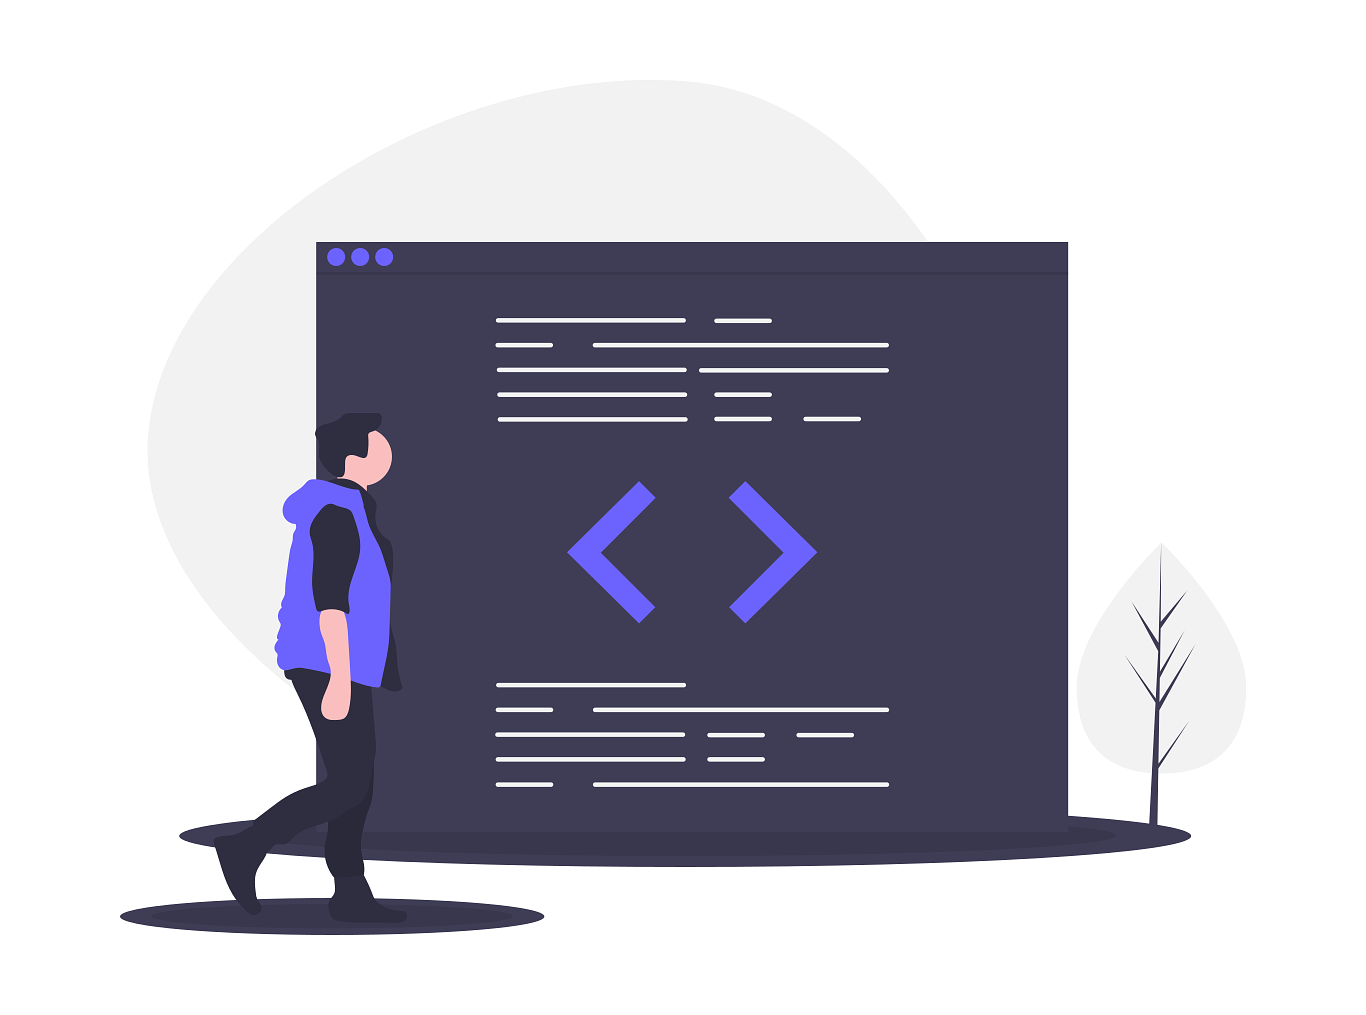
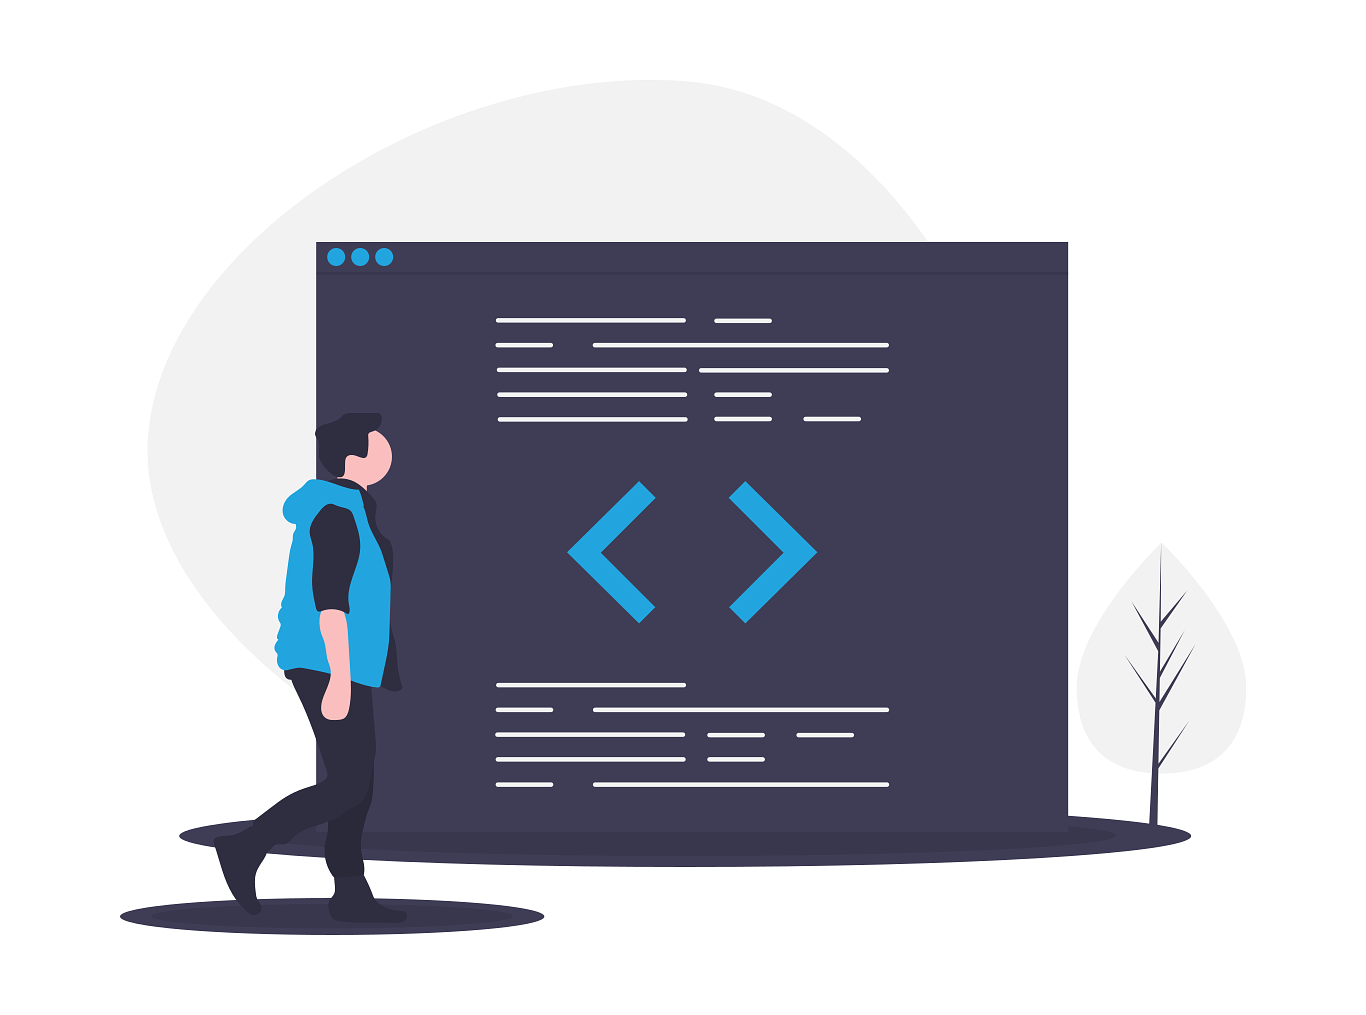
Home - Switch img color + btn "Qui suis-je ?"

diff --git a/index.html b/index.html
@@ -47,6 +47,7 @@
                 <p>Je suis salarié alternant en tant qu'intégrateur web chez
                 Net.Com, agence de développement
                 web.</p>
+                <a href="#!" class="btn">Mon CV</a>
             </div>
             <div class="col-5">
                 <img src="src/img/code-page.png" alt="code-page" class="img-resp">

diff --git a/src/css/style.css b/src/css/style.css
@@ -8,6 +8,20 @@ body {
   height: auto;
 }
 
+.btn {
+  display: inline-block;
+  padding: 8px 20px;
+  border-radius: 50px;
+  background: linear-gradient(45deg, #1334ab, #05dcff);
+  color: white;
+  font-weight: 600;
+}
+
+.btn:hover {
+  color: white;
+  text-decoration: none;
+}
+
 .slick-initialized .slick-slide {
   outline: none;
 }

diff --git a/src/css/partial/_custom-components.scss b/src/css/partial/_custom-components.scss
@@ -1,4 +1,18 @@
 
+.btn{
+  display: inline-block;
+  padding: 8px 20px;
+  border-radius: 50px;
+  background: linear-gradient(45deg, #1334ab, #05dcff);
+  color: white;
+  font-weight: 600;
+  &:hover{
+    color: white;
+    text-decoration: none;
+  }
+}
+
+
 //SLICK DOTS
 .slick-initialized{
   .slick-slide{
